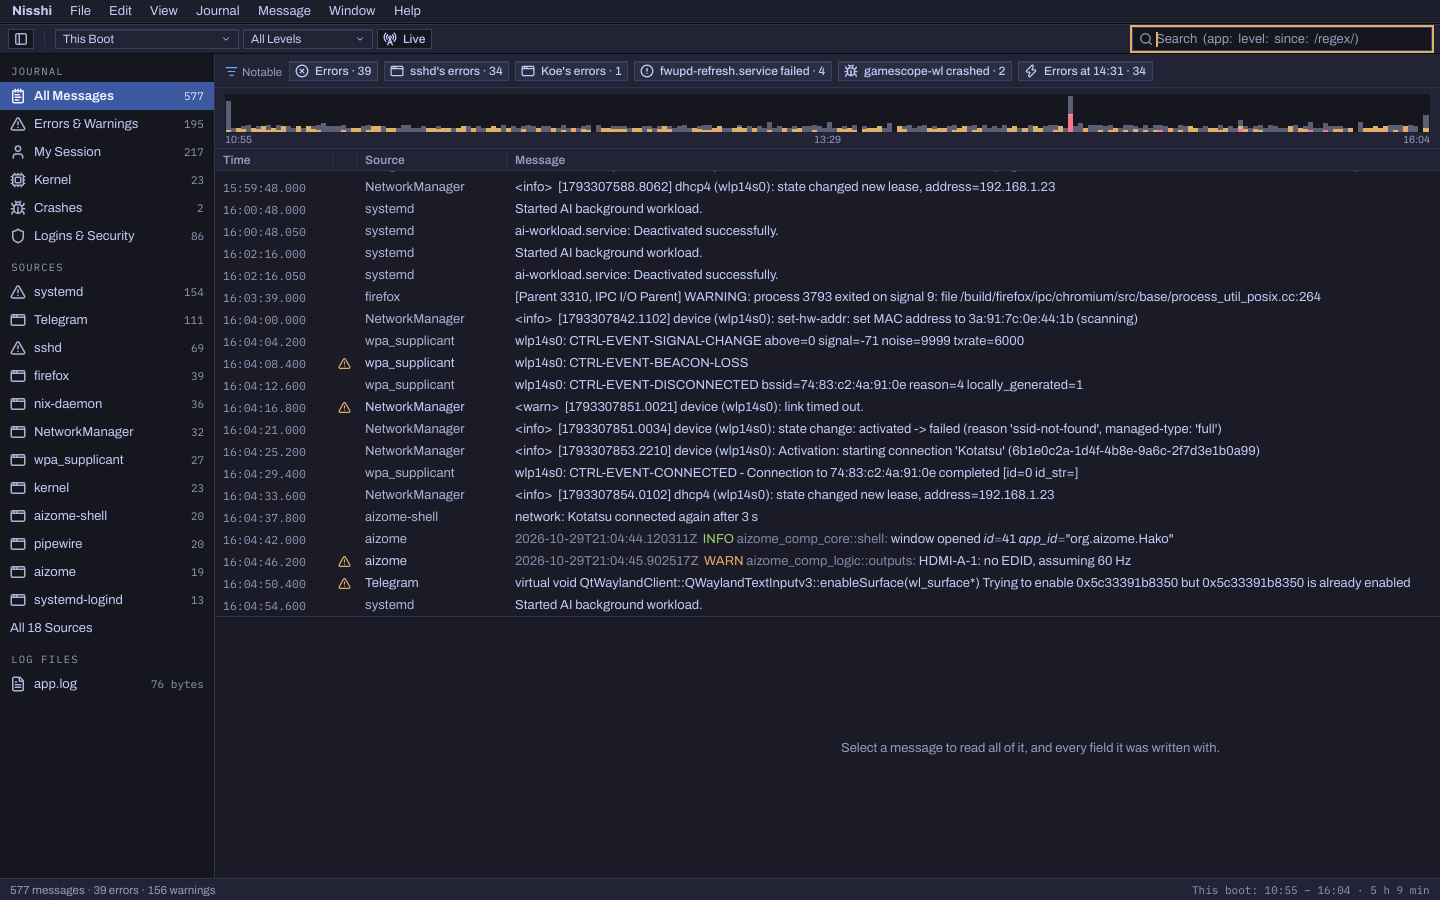
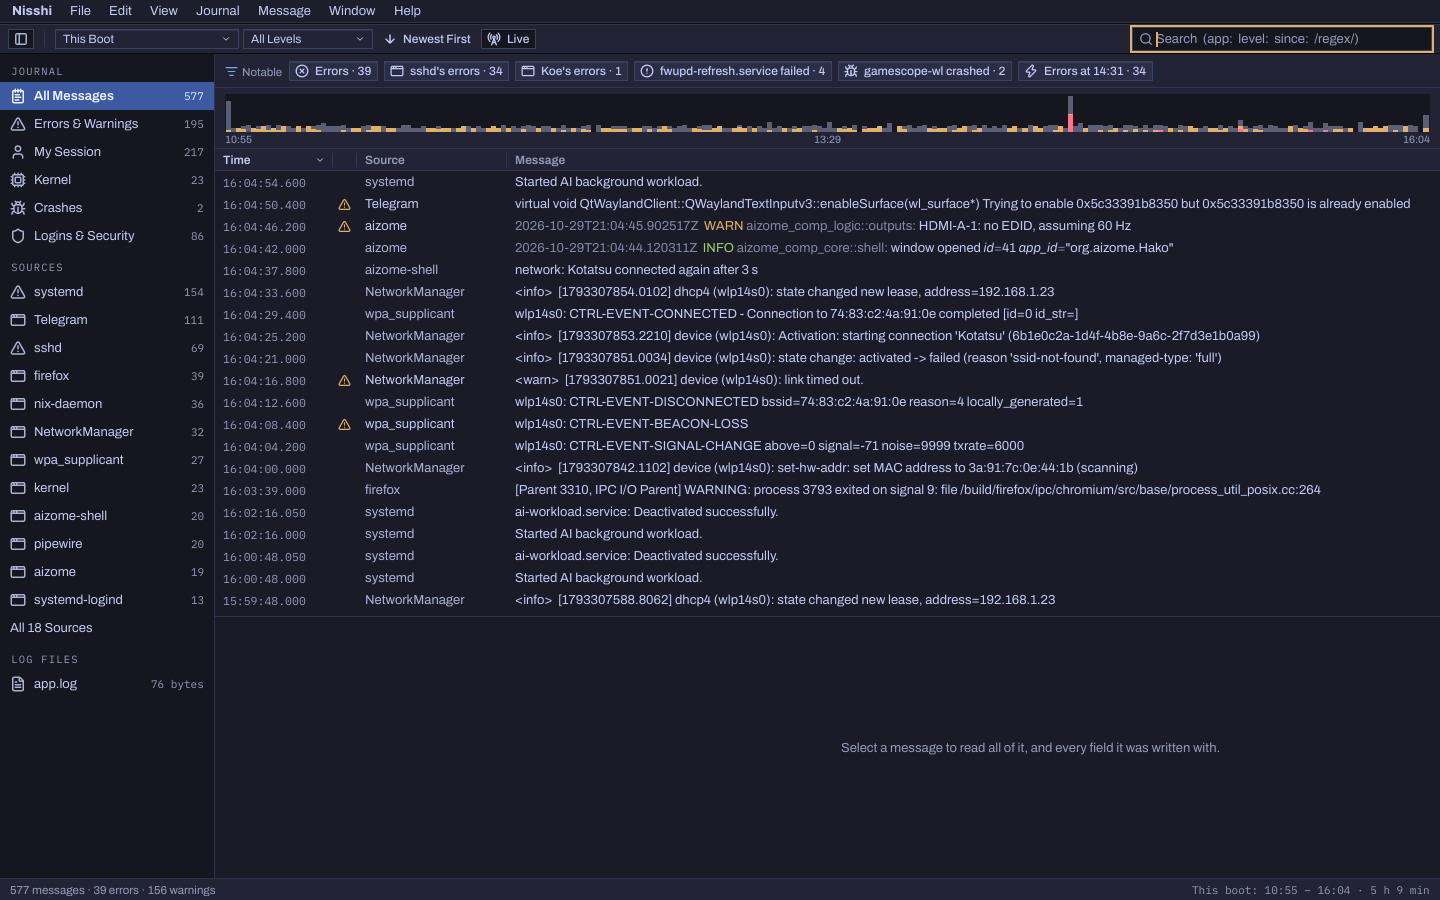
Show the newest messages first in Nisshi, and say so
The list opened with the oldest message at the top of the boot. Now the
newest is at the top, where it stays in view as messages come in live, and
the window says which way round it is: the toolbar's Newest First (an arrow
down) and the Time column's sort arrow, either of which turns the list
round to Oldest First. Go to the Newest and the new-messages button point
the right way. Nisshi keeps the choice in $XDG_CONFIG_HOME/aizome/nisshi.toml,
as Aizome's apps keep their settings; a selection stays in view when the
order changes.

Changed region(s): [[0.25, 0.1867, 0.9688, 0.6844], [0.1562, 0.1867, 0.2188, 0.6844], [0.25, 0.0311, 0.375, 0.0622]]

diff --git a/desktop/aizome/apps/nisshi/tests/ui.rs b/desktop/aizome/apps/nisshi/tests/ui.rs
@@ -251,7 +251,10 @@ fn copying_and_exporting() {
     let copied = h.platform.clipboard.clone().unwrap();
     let lines: Vec<&str> = copied.lines().collect();
     assert_eq!(lines.len(), 2);
-    assert!(lines[0].starts_with("14:55:00.000 sudo[6754]: alice : TTY=pts/1"), "{copied}");
+    // The two at the top are the newest; copied, they read oldest first,
+    // as journal lines do.
+    assert!(lines[0].starts_with("14:55:30.000 sudo[6754]: pam_unix(sudo:session): session closed"), "{copied}");
+    assert!(lines[1].starts_with("14:56:00.000 sudo[6799]: alice : 3 incorrect password attempts"), "{copied}");
     let text = h.program().export_text(false);
     assert_eq!(text.lines().count(), 4);
     let json = h.program().export_text(true);
@@ -280,13 +283,31 @@ fn the_keyboard() {
 }
 
 #[test]
-fn newest_at_the_top() {
+fn newest_first_unless_asked_otherwise() {
     let mut h = start();
-    let newest = h.program().store.entries.last().unwrap().seq;
-    h.send(Msg::NewestFirst(true));
+    let w = h.window();
+    let entries = &h.program().store.entries;
+    let (oldest, newest) = (entries[0].seq, entries.last().unwrap().seq);
+    let last = h.program().view.rows.len() - 1;
+    // The newest at the top, kept in view, and said so.
+    assert!(h.program().newest_first);
+    assert_eq!(h.program().reveal(), Some(0));
+    assert!(h.texts(w).iter().any(|t| t == "Newest First"), "{:?}", h.texts(w));
     h.send(Msg::SelectRows(vec![0]));
     assert_eq!(h.program().selected, [newest]);
-    assert_eq!(h.program().selected_rows(), [0]);
+    // The Time column's header turns it round, as the toolbar does.
+    h.send(Msg::JumpToNewest);
+    let table = h.find_id(w, "messages").expect("the table");
+    h.click(w, aizome_kit::Point::new(table.x0 + 30.0, table.y0 + 8.0));
+    assert!(!h.program().newest_first);
+    assert_eq!(h.program().reveal(), Some(last), "the newest at the bottom, in view");
+    assert!(h.texts(w).iter().any(|t| t == "Oldest First"));
+    h.send(Msg::SelectRows(vec![0]));
+    assert_eq!(h.program().selected, [oldest]);
+    assert!(h.click_text(w, "Oldest First"));
+    assert!(h.program().newest_first);
+    // The selection stays the one shown.
+    assert_eq!(h.program().selected_rows(), [last]);
 }
 
 #[test]

diff --git a/desktop/aizome/apps/nisshi/src/app.rs b/desktop/aizome/apps/nisshi/src/app.rs
@@ -212,7 +212,10 @@ pub struct Nisshi {
     pub following: bool,
     /// Messages that came while it didn't.
     pub unseen: usize,
+    /// The newest message at the top (the default), or the oldest.
     pub newest_first: bool,
+    /// Where the settings are kept: none in tests and pictures.
+    settings_path: Option<std::path::PathBuf>,
     pub details: bool,
     pub sidebar: bool,
     pub all_sources: bool,
@@ -233,7 +236,14 @@ impl Nisshi {
     pub fn live(request: Request) -> Nisshi {
         // SAFETY: getuid has no preconditions.
         let uid = unsafe { libc::getuid() };
-        Nisshi { live: true, ..Nisshi::empty(Clock::system(), uid, request) }
+        let path = crate::settings::default_path();
+        let settings = crate::settings::Settings::load(&path);
+        Nisshi {
+            live: true,
+            newest_first: settings.newest_first,
+            settings_path: Some(path),
+            ..Nisshi::empty(Clock::system(), uid, request)
+        }
     }
 
     fn empty(clock: Clock, uid: u32, request: Request) -> Nisshi {
@@ -267,7 +277,8 @@ impl Nisshi {
             live_on: true,
             following: true,
             unseen: 0,
-            newest_first: false,
+            newest_first: true,
+            settings_path: None,
             details: true,
             sidebar: true,
             all_sources: false,
@@ -1206,7 +1217,13 @@ impl Program for Nisshi {
             }
             Msg::ToggleDetails => self.details = !self.details,
             Msg::ToggleSidebar => self.sidebar = !self.sidebar,
-            Msg::NewestFirst(on) => self.newest_first = on,
+            Msg::NewestFirst(on) => {
+                // The view keeps to the newest, or to the message selected.
+                self.newest_first = on;
+                if let Some(path) = &self.settings_path {
+                    crate::settings::Settings { newest_first: on }.save(path);
+                }
+            }
             Msg::OpenActivity(pid) => {
                 if let Err(e) = std::process::Command::new("aizome-myaku").arg("--pid").arg(pid.to_string()).spawn() {
                     self.notice = Some((format!("Activity couldn't open: {e}"), true));

diff --git a/desktop/aizome/apps/nisshi/src/settings.rs b/desktop/aizome/apps/nisshi/src/settings.rs
@@ -1,0 +1,63 @@
+//! Nisshi's settings, `$XDG_CONFIG_HOME/aizome/nisshi.toml`: what the
+//! View menu and the toolbar set and Nisshi keeps between launches.
+
+use std::path::{Path, PathBuf};
+
+use serde::{Deserialize, Serialize};
+
+#[derive(Clone, Debug, PartialEq, Serialize, Deserialize)]
+#[serde(default)]
+pub struct Settings {
+    /// The newest message at the top of the list.
+    pub newest_first: bool,
+}
+
+impl Default for Settings {
+    fn default() -> Settings {
+        Settings { newest_first: true }
+    }
+}
+
+pub fn default_path() -> PathBuf {
+    std::env::var_os("XDG_CONFIG_HOME")
+        .filter(|v| !v.is_empty())
+        .map(PathBuf::from)
+        .or_else(|| std::env::var_os("HOME").map(|h| PathBuf::from(h).join(".config")))
+        .unwrap_or_else(|| PathBuf::from("/tmp"))
+        .join("aizome/nisshi.toml")
+}
+
+impl Settings {
+    pub fn load(path: &Path) -> Settings {
+        std::fs::read_to_string(path).ok().and_then(|t| toml::from_str(&t).ok()).unwrap_or_default()
+    }
+
+    /// Write them, replacing the file whole (a new file, then renamed).
+    pub fn save(&self, path: &Path) {
+        if let Some(d) = path.parent() {
+            let _ = std::fs::create_dir_all(d);
+        }
+        let Ok(text) = toml::to_string(self) else { return };
+        let fresh = path.with_extension("toml.new");
+        if let Err(e) = std::fs::write(&fresh, text).and_then(|()| std::fs::rename(&fresh, path)) {
+            log::warn!("{}: {e}", path.display());
+        }
+    }
+}
+
+#[cfg(test)]
+mod tests {
+    use super::*;
+
+    #[test]
+    fn kept_and_read_again() {
+        let dir = std::env::temp_dir().join(format!("nisshi-settings-{}", std::process::id()));
+        let path = dir.join("aizome/nisshi.toml");
+        assert!(Settings::load(&path).newest_first, "newest first, before anything is kept");
+        Settings { newest_first: false }.save(&path);
+        assert_eq!(Settings::load(&path), Settings { newest_first: false });
+        std::fs::write(&path, "not = [toml").unwrap();
+        assert_eq!(Settings::load(&path), Settings::default());
+        let _ = std::fs::remove_dir_all(&dir);
+    }
+}

diff --git a/desktop/aizome/apps/nisshi/src/ui/view.rs b/desktop/aizome/apps/nisshi/src/ui/view.rs
@@ -111,6 +111,20 @@ fn toolbar(n: &Nisshi) -> Element<Msg> {
             .tooltip("The least severe level shown")
             .into(),
     );
+    // Which end the newest message is at: said, not left to guess.
+    items.push(
+        button(if n.newest_first { "Newest First" } else { "Oldest First" })
+            .icon(if n.newest_first { Icon::ArrowDown } else { Icon::ArrowUp })
+            .toolbar()
+            .on_press(Msg::NewestFirst(!n.newest_first))
+            .tooltip(if n.newest_first {
+                "The newest message is at the top: press for the oldest first"
+            } else {
+                "The oldest message is at the top: press for the newest first"
+            })
+            .id("order")
+            .into(),
+    );
     if journal {
         items.push(
             button(if n.live_on && live_possible { "Live" } else { "Paused" })
@@ -355,7 +369,7 @@ fn status(n: &Nisshi) -> Element<Msg> {
                 button(words)
                     .compact()
                     .plain()
-                    .icon(Icon::ArrowDown)
+                    .icon(if n.newest_first { Icon::ArrowUp } else { Icon::ArrowDown })
                     .on_press(Msg::JumpToNewest)
                     .tooltip("Go to the newest message")
                     .id("newest")

diff --git a/desktop/aizome/apps/nisshi/src/ui/menus.rs b/desktop/aizome/apps/nisshi/src/ui/menus.rs
@@ -65,9 +65,13 @@ pub fn menus(n: &Nisshi) -> MenuBar<Msg> {
             MenuItem::new(if n.details { "Hide Details" } else { "Show Details" }, Msg::ToggleDetails)
                 .shortcut(Shortcut::cmd('I')),
         )
-        .item(MenuItem::new("Newest at the Top", Msg::NewestFirst(!n.newest_first)).checked(n.newest_first))
+        .item(MenuItem::new("Newest First", Msg::NewestFirst(!n.newest_first)).checked(n.newest_first))
         .separator()
-        .item(MenuItem::new("Go to the Newest", Msg::JumpToNewest).shortcut(Shortcut::cmd_key(ShortcutKey::Down)));
+        .item(MenuItem::new("Go to the Newest", Msg::JumpToNewest).shortcut(Shortcut::cmd_key(if n.newest_first {
+            ShortcutKey::Up
+        } else {
+            ShortcutKey::Down
+        })));
     let live_possible = !n.in_file() && matches!(n.boot, Boot::Current | Boot::All);
     let names = crate::ui::view::boot_names(n);
     let count = names.len();

diff --git a/desktop/aizome/apps/nisshi/src/ui/table.rs b/desktop/aizome/apps/nisshi/src/ui/table.rs
@@ -67,7 +67,8 @@ pub fn view(n: &Nisshi) -> Element<Msg> {
     });
     let file = n.in_file();
     let columns = vec![
-        Column::new("Time").width(if file { 130.0 } else { 118.0 }).min_width(80.0),
+        // Sorted by time, the arrow saying which way; pressed, the other.
+        Column::new("Time").width(if file { 130.0 } else { 118.0 }).min_width(80.0).sortable(),
         Column::new("").width(24.0).min_width(24.0),
         Column::new("Source").width(150.0).min_width(70.0),
         Column::new("Message").width(600.0).min_width(160.0),
@@ -89,6 +90,8 @@ pub fn view(n: &Nisshi) -> Element<Msg> {
         .type_select(names)
         .context_menu(menus)
         .row_height(22.0)
+        .sorted(0, !n.newest_first)
+        .on_sort(|_, ascending| Msg::NewestFirst(!ascending))
         .width(Length::Fill)
         .height(Length::Fill)
         .id("messages");

diff --git a/desktop/aizome/apps/nisshi/src/lib.rs b/desktop/aizome/apps/nisshi/src/lib.rs
@@ -24,6 +24,7 @@ pub mod model;
 pub mod protocol;
 pub mod query;
 pub mod search;
+pub mod settings;
 pub mod shape;
 pub mod suggest;
 pub mod time;

diff --git a/desktop/aizome/docs/apps.md b/desktop/aizome/docs/apps.md
@@ -684,6 +684,10 @@ details below the list.
   with a button that filters by it. **Around This Time** clears every
   filter and shows a minute either side; **Activity** opens Myaku on its
   process while it runs.
+- **Newest first**: the newest message is at the top, as the toolbar's
+  **Newest First** says and the Time column's arrow shows; either turns the
+  list round (**Oldest First**, the newest at the bottom), and Nisshi keeps
+  the choice in `$XDG_CONFIG_HOME/aizome/nisshi.toml`.
 - **Live**: new messages of the running boot come in as they're
   written, and the list follows the newest until a message is selected
   (the status line then counts what's new, and goes to it). The toolbar
